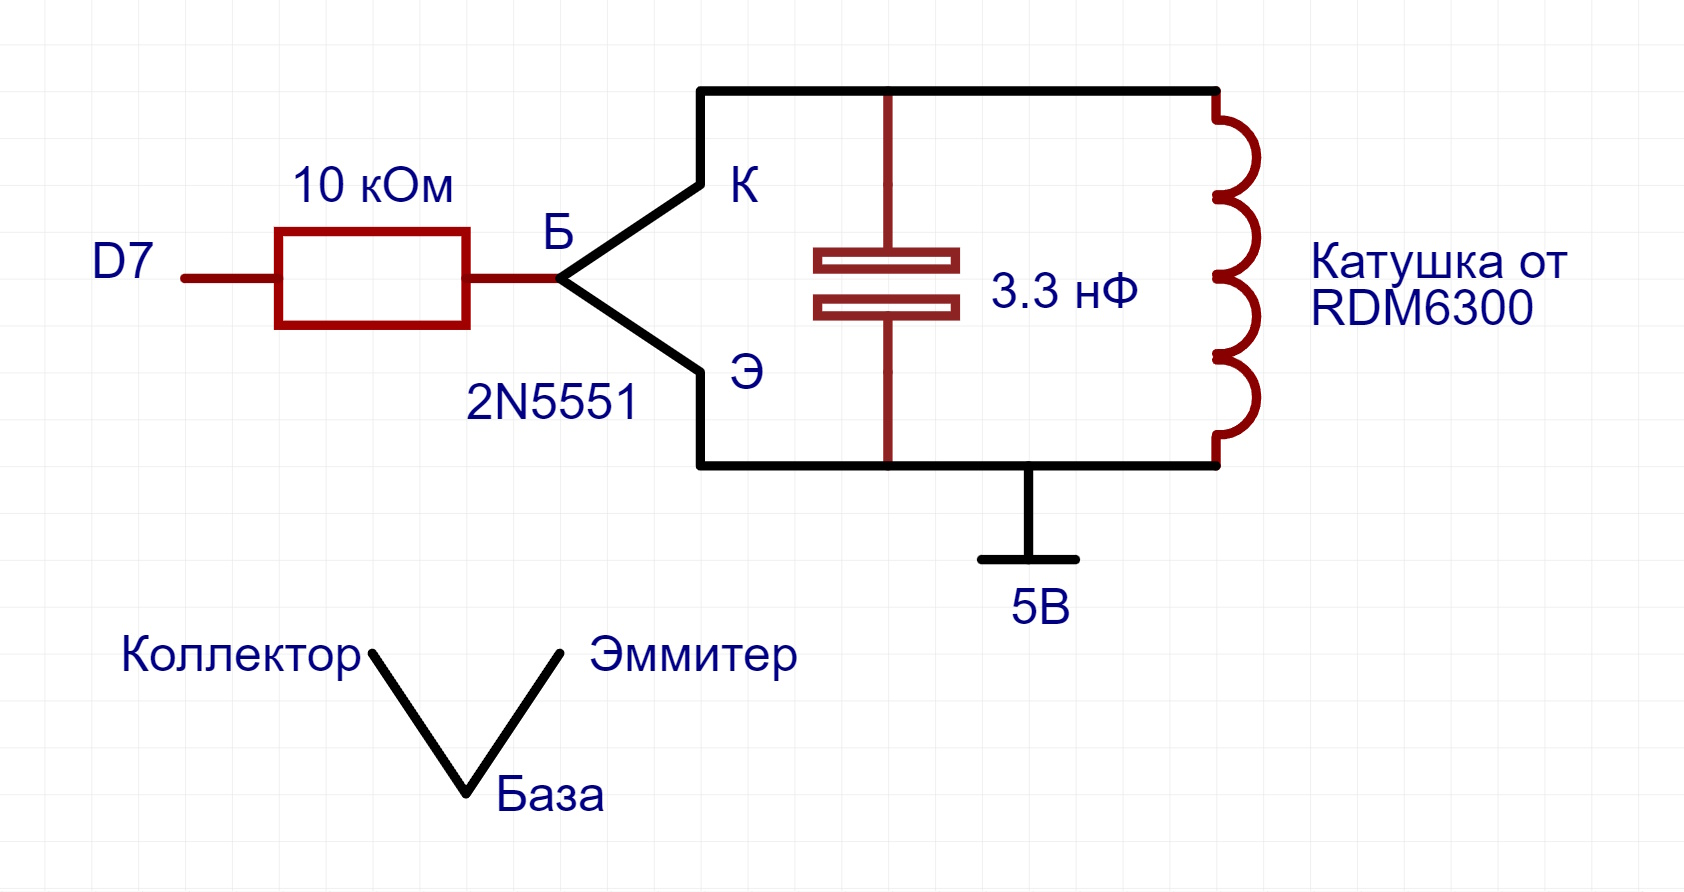
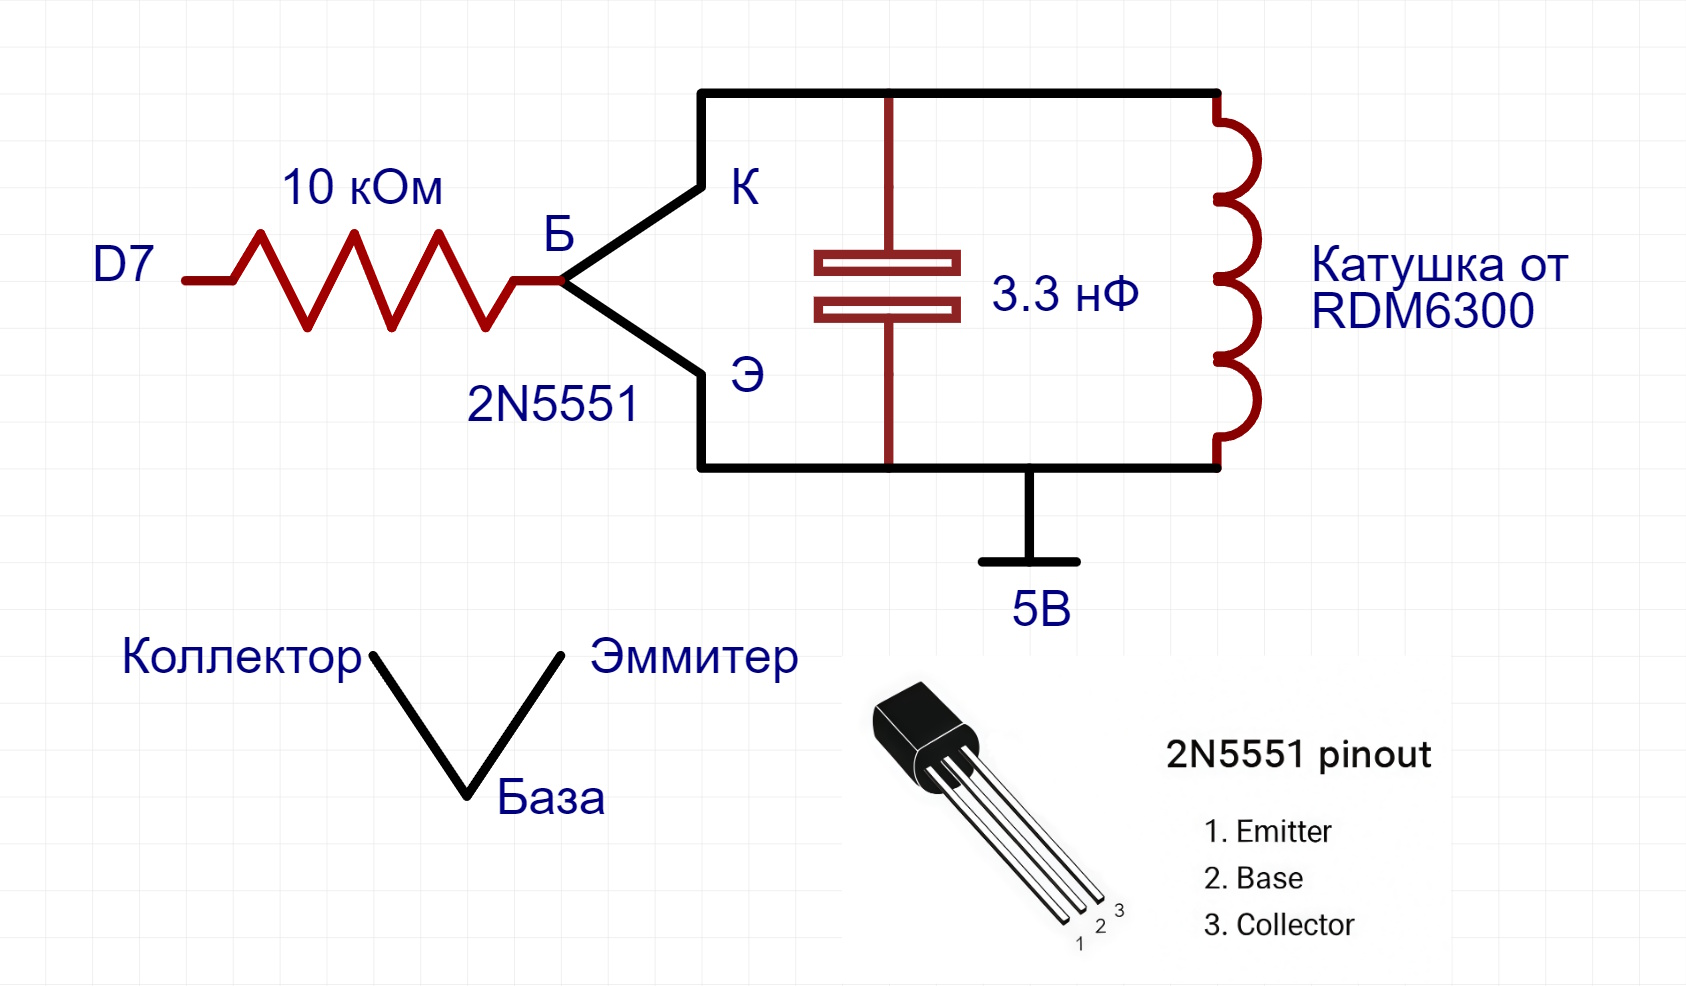
Ризисторы одного вида

diff --git a/readme.md b/readme.md
@@ -54,7 +54,8 @@ RFID Emulation:
     <img src="./assets/EmuRFID.jpg" alt="project photo" width="900"/>
 </p>
 
-Эмуляцию RFID я позаимствовал у [dlinyj](https://habr.com/ru/companies/ruvds/articles/533474/)
+Эмуляцию RFID я позаимствовал у [dlinyj](https://habr.com/ru/companies/ruvds/articles/533474/).
+А распиновку взял [отсюда](https://www.el-component.com/bipolar-transistors/2n5551)
 
 RFID Read/Write:
 <p>
